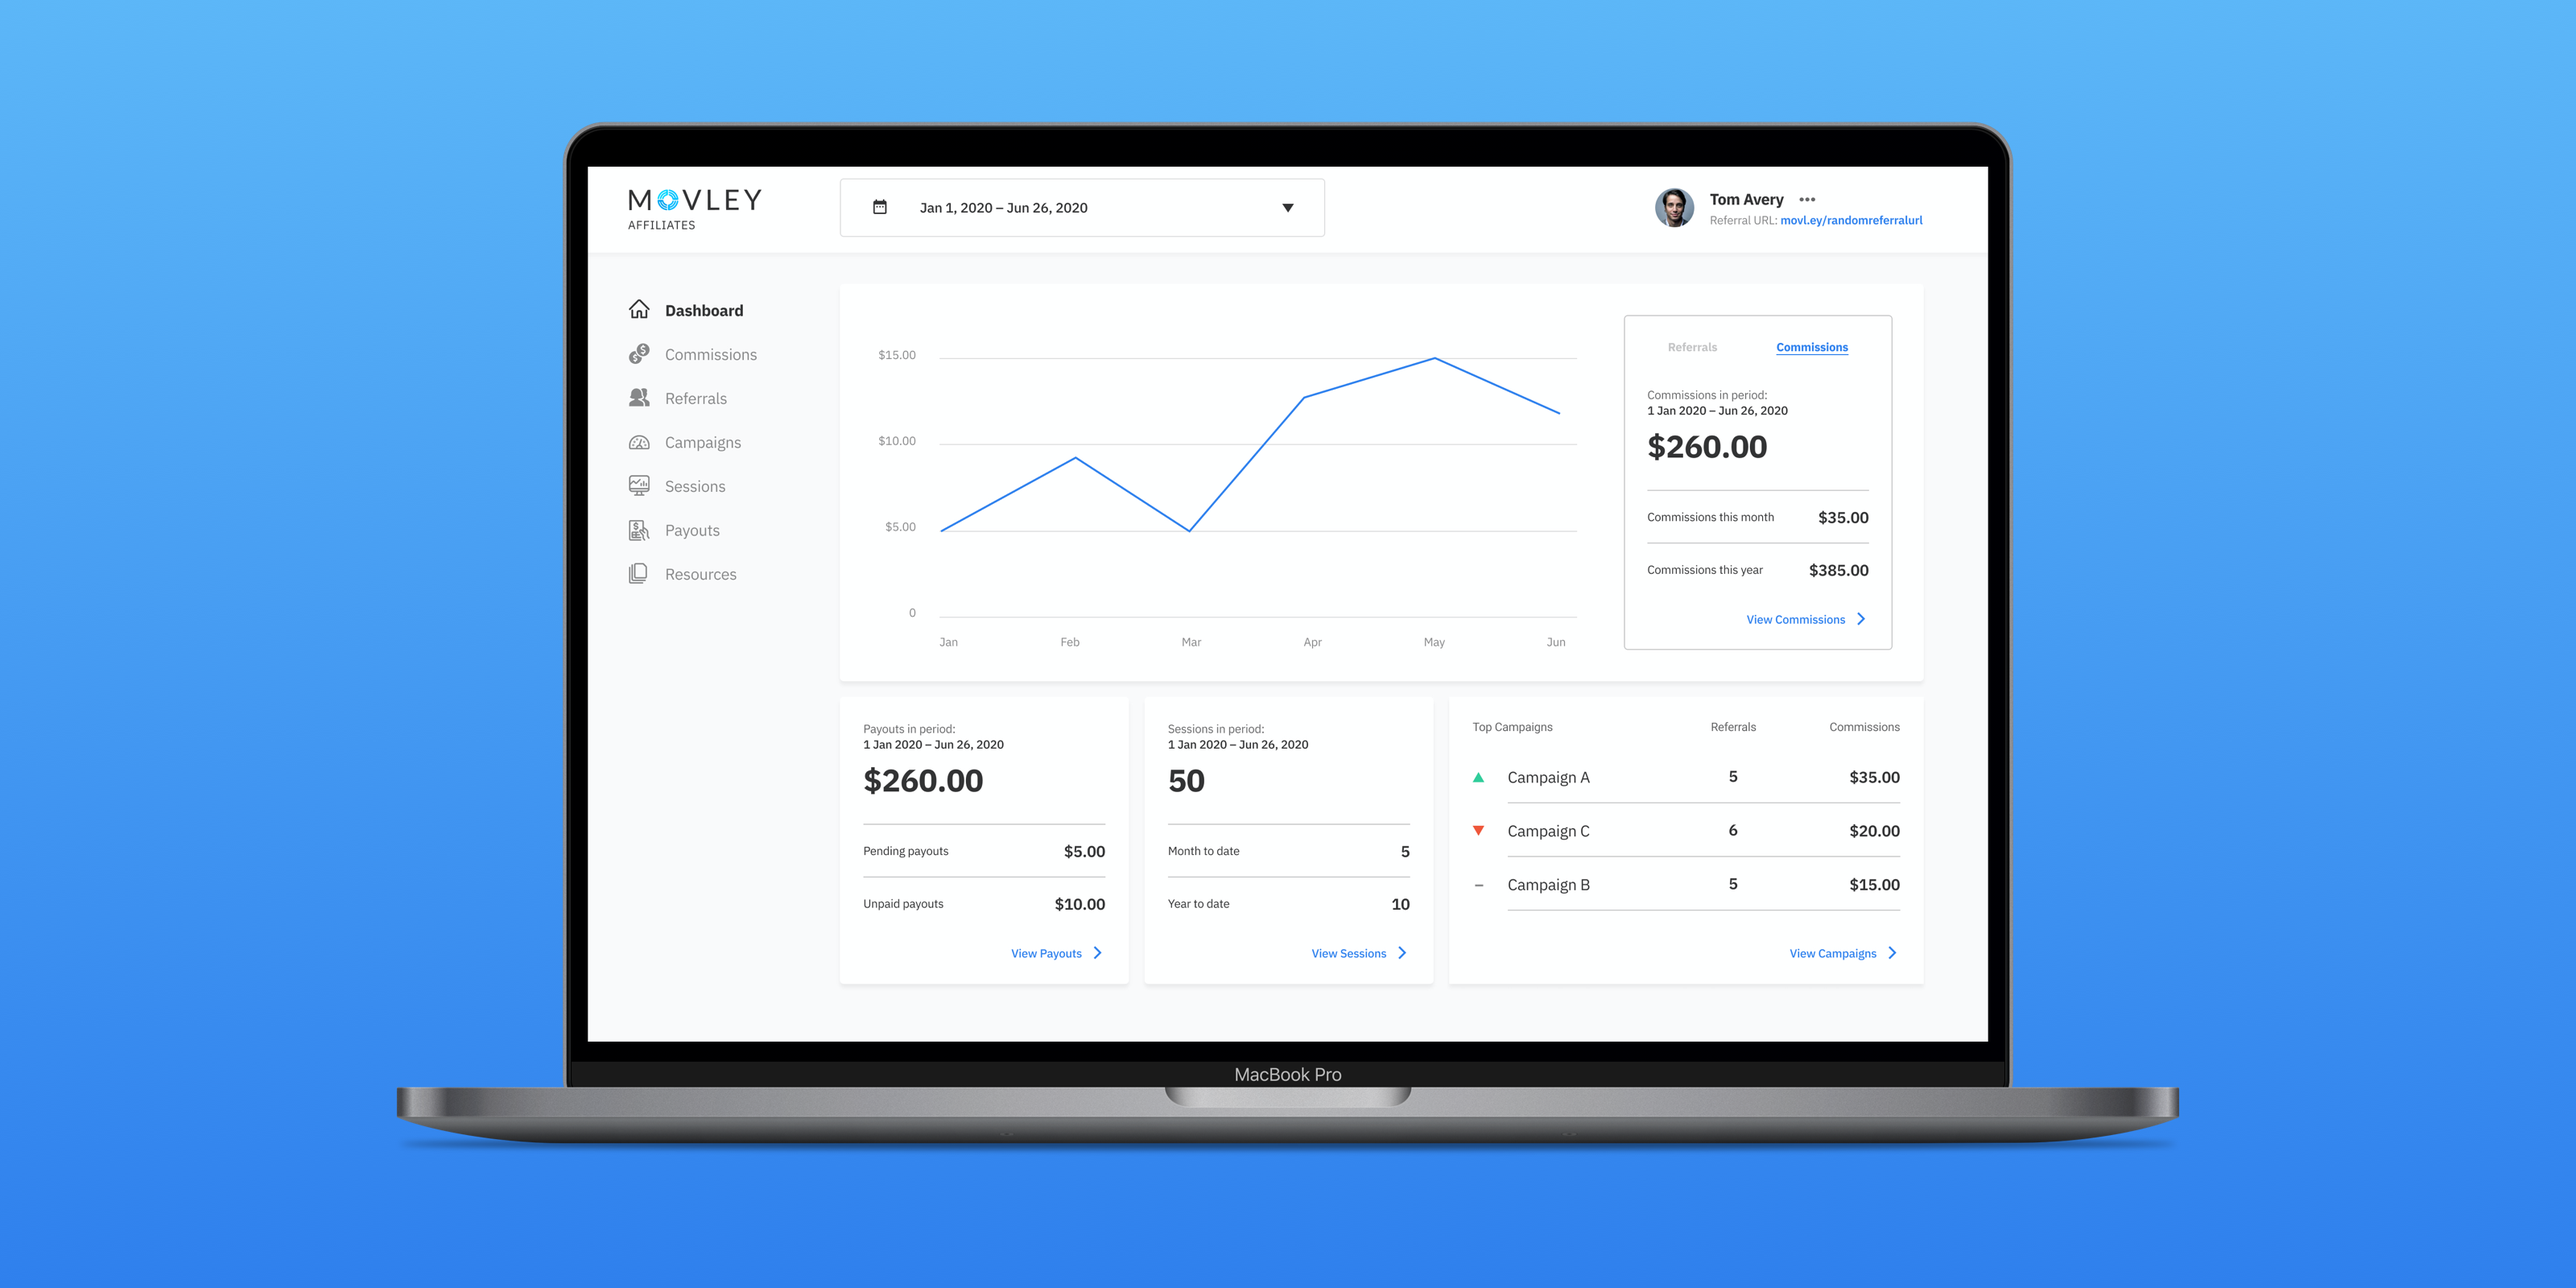
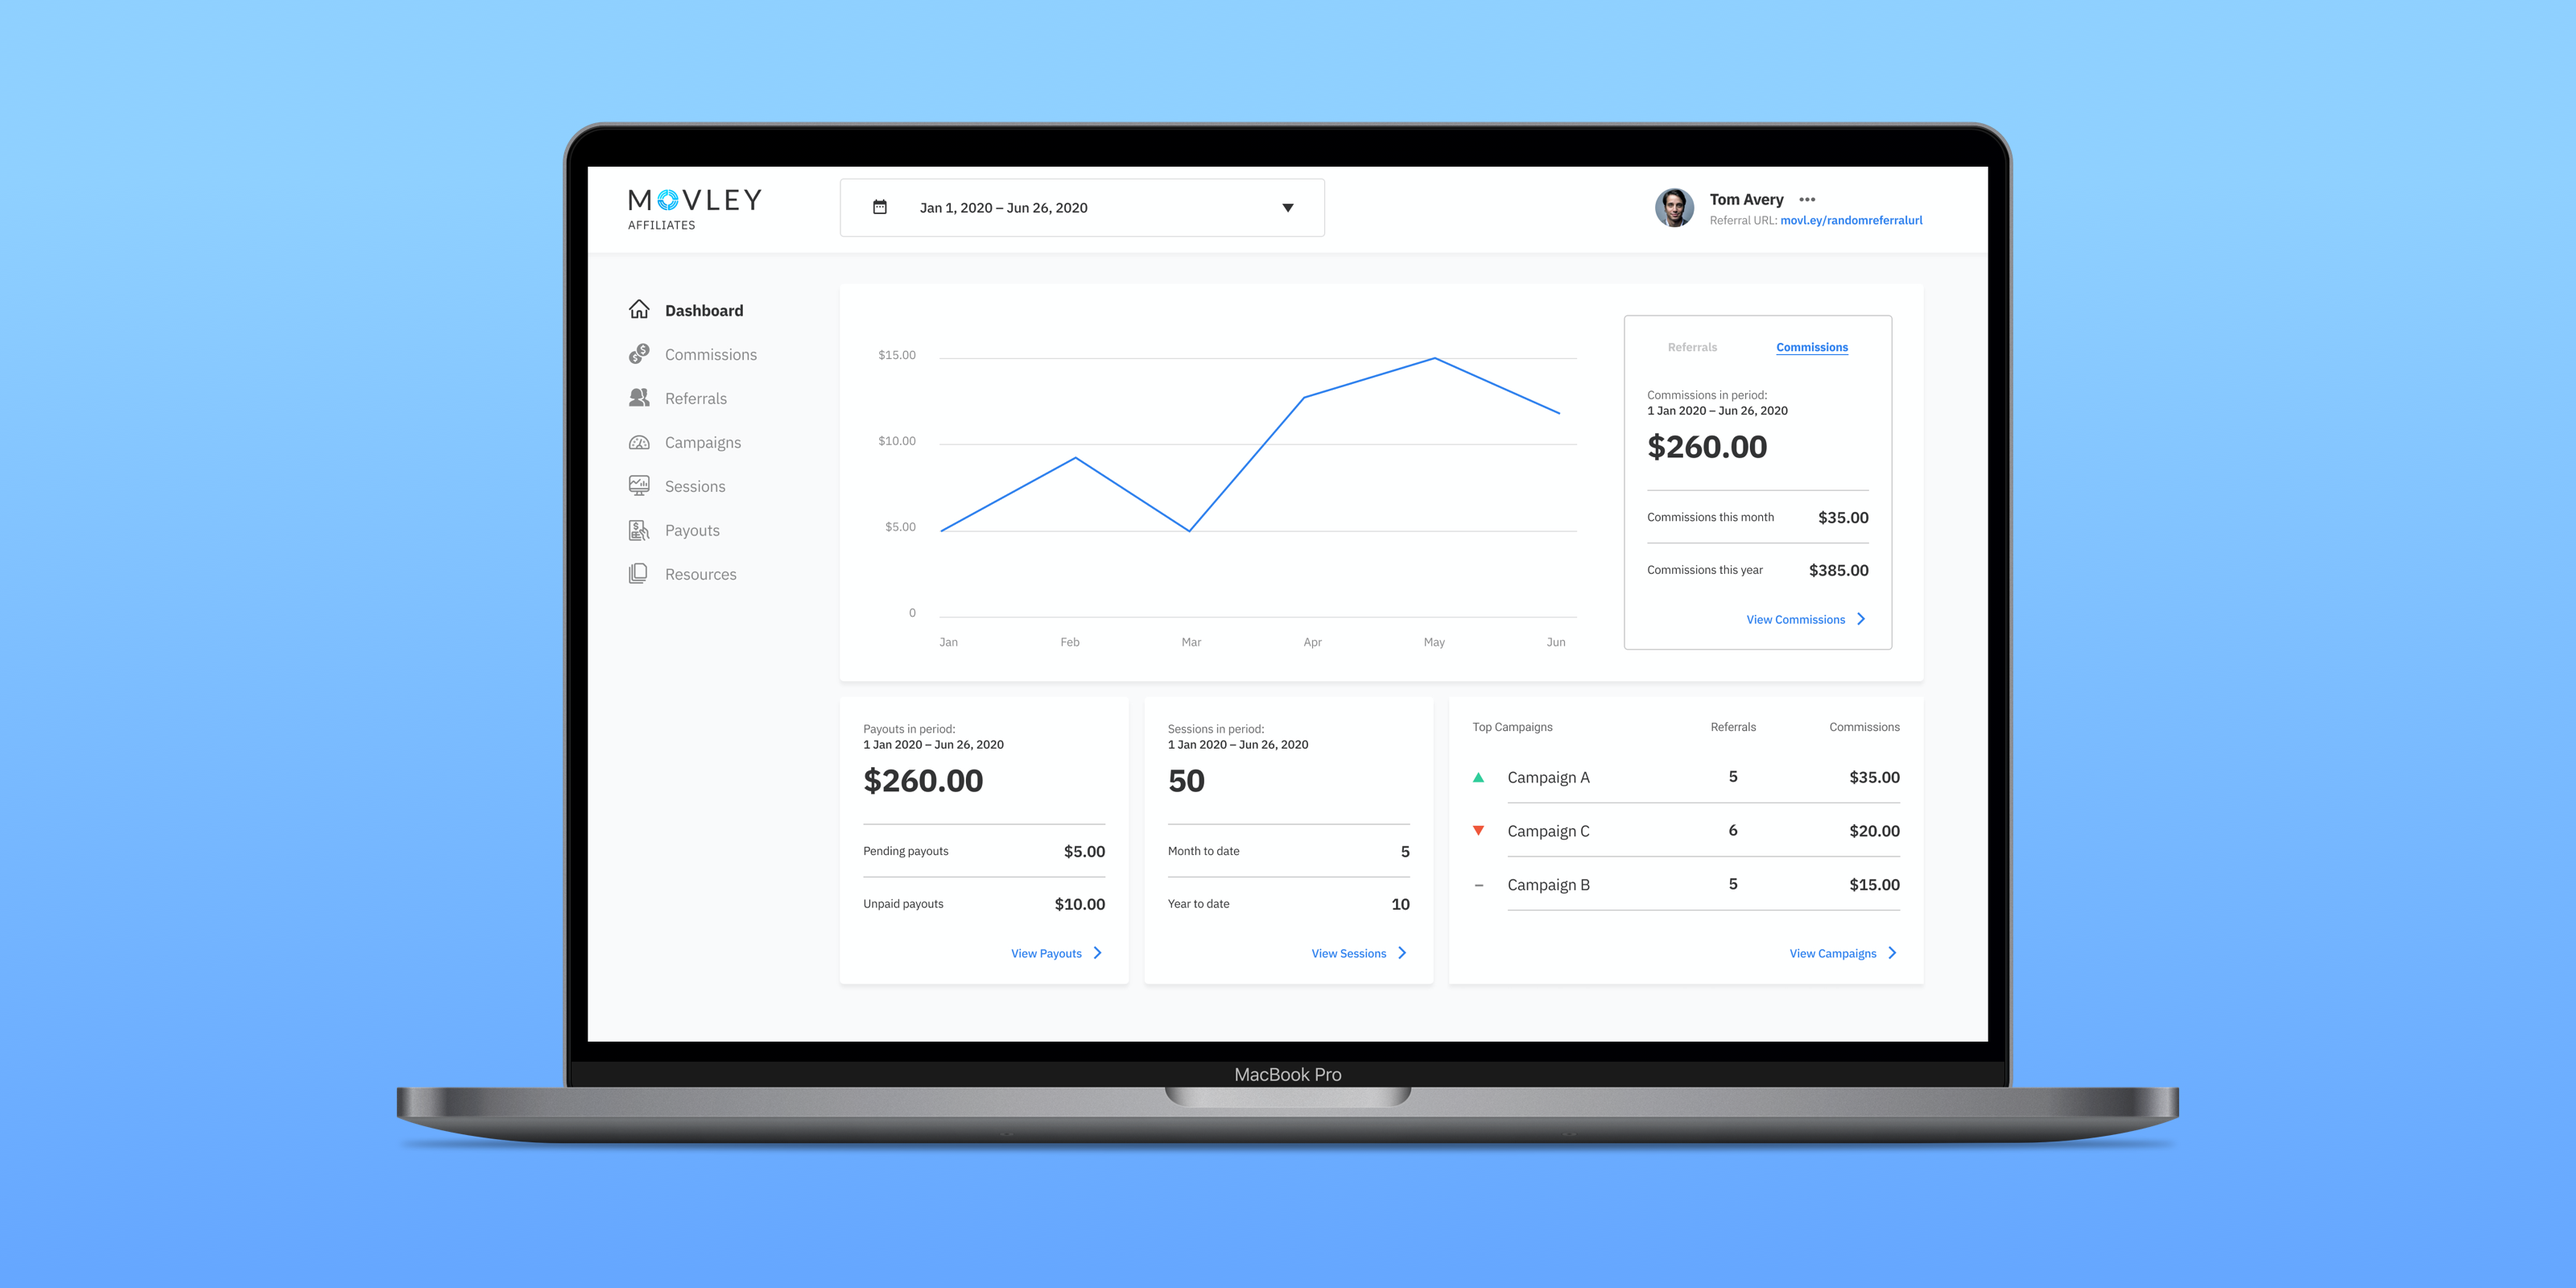
thumbnail updates

diff --git a/src/pages/index.js b/src/pages/index.js
@@ -249,8 +249,7 @@ const Name = styled(Link)`
   color: #333;
   transition: 0.2s;
   text-decoration: none;
-  // border-bottom: 5px solid #b5b5b5;
-  // height: 0;
+
 
   :hover {
     color: #888; 
@@ -293,9 +292,9 @@ export default function IndexPage() {
   return (
     <LayoutHack >
       <SEO title="Home" />
-      <HeaderWrapper>
+      {/* <HeaderWrapper> */}
         <Header/>  
-      </HeaderWrapper>
+      {/* </HeaderWrapper> */}
       {/* <FauxHeader>
           <HeaderTitle>John Lim</HeaderTitle>
       </FauxHeader>  */}
@@ -307,8 +306,7 @@ export default function IndexPage() {
           <Wrapper>
             <div style={{width: "100%"}}>
             {/* <Subtitle>Digital Product Designer</Subtitle> */}
-            <Body>
-              
+            <Body>           
               {/* <FauxHeader>
                 <StyledLink to="/">
                   <h4>John Lim</h4>
@@ -326,9 +324,7 @@ export default function IndexPage() {
                   </Title> 
                 </div>
                 <div data-sal="fade" data-sal-delay="300" data-sal-duration="1200" data-sal-easing="ease">
-
                   <Text>I'm an undergraduate student at the <Highlight>University of Washington</Highlight> majoring in <Highlight>Human Computer Interaction</Highlight> and enthralled by the factors that make us <Highlight>human.</Highlight></Text>
-
                   <Text>If not <Highlight>pushing pixels</Highlight> in a Seattle coffee shop, catch me <Highlight>chasing powder</Highlight> on my local ski hill or wherever there is good snow to be found.</Text>
                 </div>
                 

diff --git a/src/components/home/movley-thumbnail.jsx b/src/components/home/movley-thumbnail.jsx
@@ -86,7 +86,7 @@ const ImageParent = styled(ImageWrapper)`
 export default function Movley() {
   const data = useStaticQuery(graphql`
     query {
-      HeroImage: file(relativePath: {eq: "movley-thumbnail-copy.png"}) {
+      HeroImage: file(relativePath: {eq: "movley-thumbnail-copy.jpg"}) {
         childImageSharp {
           fluid (maxWidth: 3200, maxHeight: 1600) {
             ...GatsbyImageSharpFluid

diff --git a/src/components/home/g-thumbnail.jsx b/src/components/home/g-thumbnail.jsx
@@ -99,7 +99,7 @@ const ImageParent = styled(ImageWrapper)`
 export default function GThumbnail() {
   const data = useStaticQuery(graphql`
     query {
-      HeroImage: file(relativePath: {eq: "g-hero-image.png"}) {
+      HeroImage: file(relativePath: {eq: "g-hero-image.jpg"}) {
         childImageSharp {
           fluid (maxWidth: 3200, maxHeight: 1600) {
             ...GatsbyImageSharpFluid
